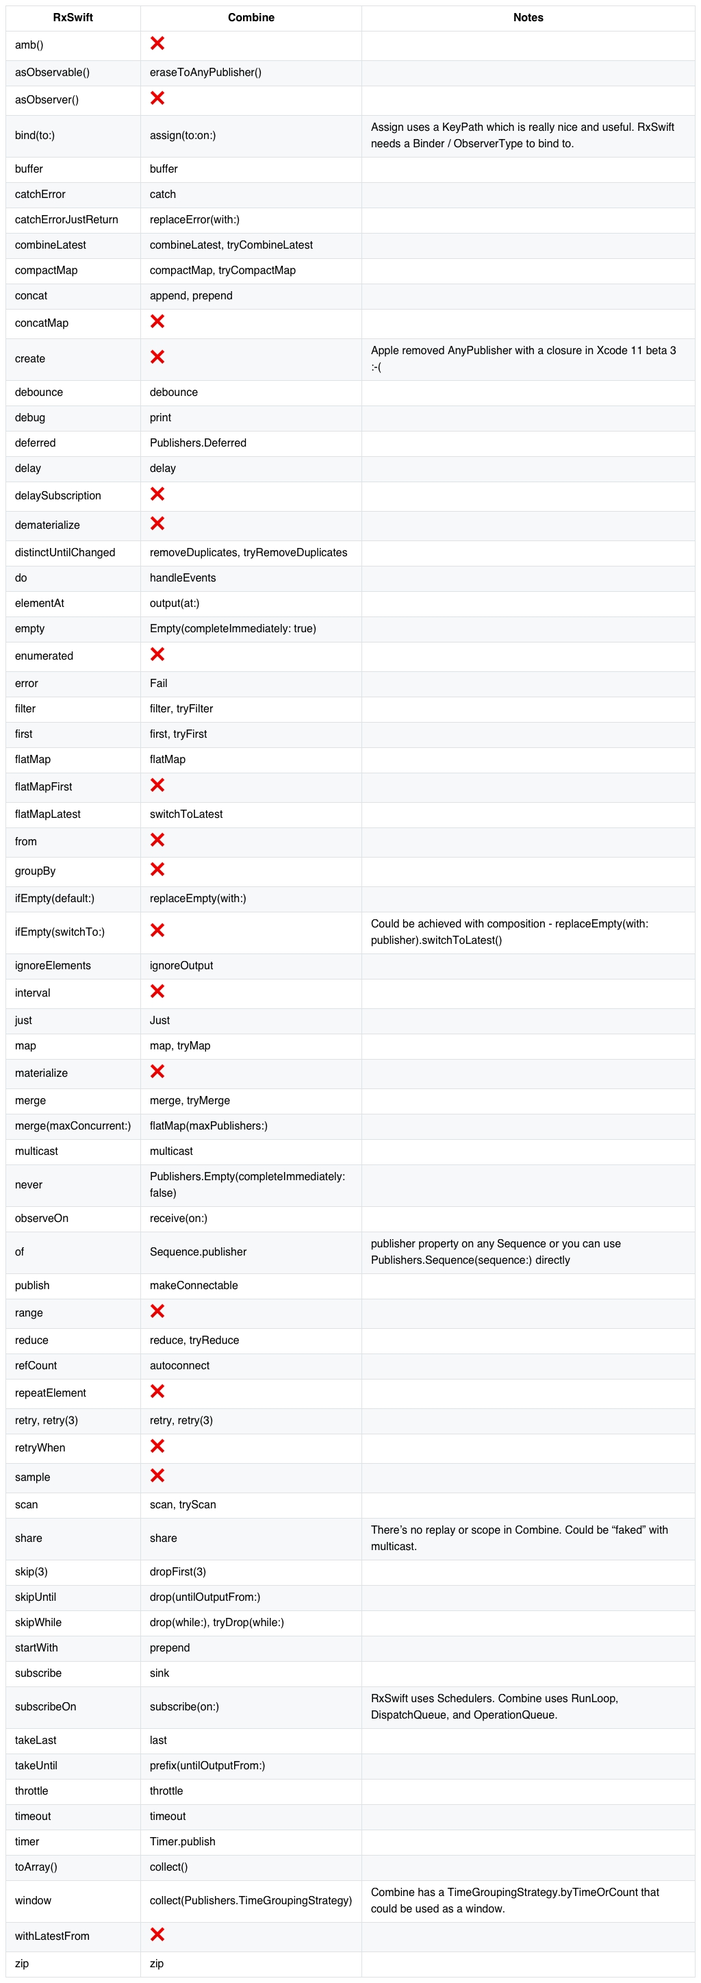
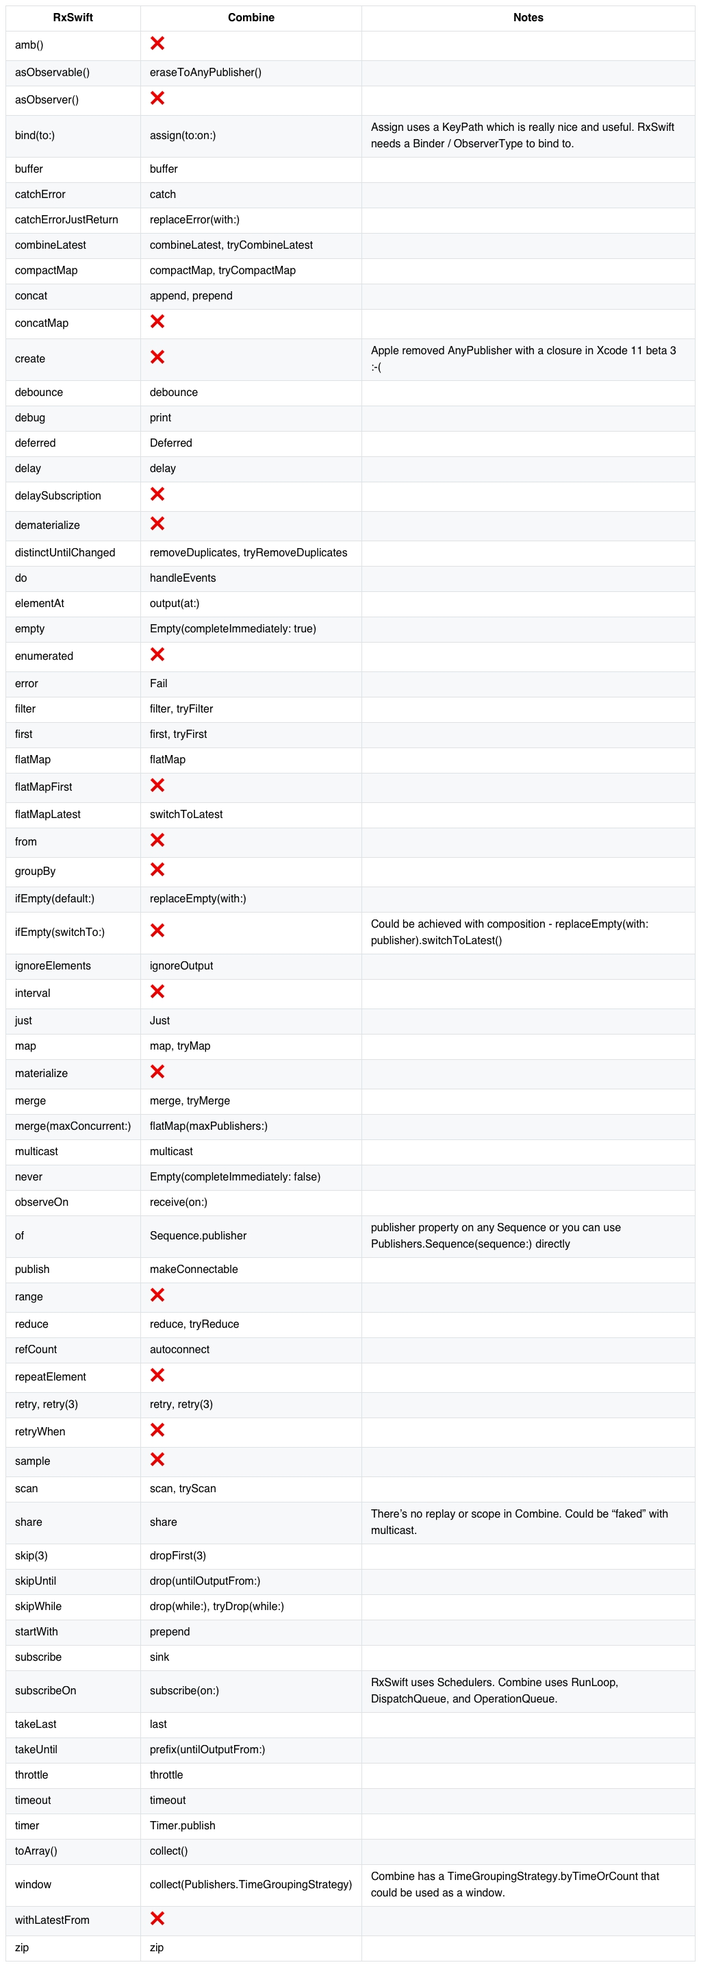
Updated `deferred` and `never` equivalents (#15)

diff --git a/README.md b/README.md
@@ -45,77 +45,77 @@ It's based on the following blog post: [https://medium.com/gett-engineering/rxsw
 
 ## [Operators](Data/operators.csv)
 
-| RxSwift               | Combine                                      | Notes                                                                                                    |
-|-----------------------|----------------------------------------------|----------------------------------------------------------------------------------------------------------|
-| amb()                 | ❌                                            |                                                                                                          |
-| asObservable()        | eraseToAnyPublisher()                        |                                                                                                          |
-| asObserver()          | ❌                                            |                                                                                                          |
-| bind(to:)             | `assign(to:on:)`                             | Assign uses a KeyPath which is really nice and useful. RxSwift needs a Binder / ObserverType to bind to. |
-| buffer                | buffer                                       |                                                                                                          |
-| catchError            | catch                                        |                                                                                                          |
-| catchErrorJustReturn  | replaceError(with:)                          |                                                                                                          |
-| combineLatest         | combineLatest, tryCombineLatest              |                                                                                                          |
-| compactMap            | compactMap, tryCompactMap                    |                                                                                                          |
-| concat                | append, prepend                              |                                                                                                          |
-| concatMap             | ❌                                            |                                                                                                          |
-| create                | ❌                                            | Apple removed AnyPublisher with a closure in Xcode 11 beta 3 :-(                                         |
-| debounce              | debounce                                     |                                                                                                          |
-| debug                 | print                                        |                                                                                                          |
-| deferred              | Publishers.Deferred                          |                                                                                                          |
-| delay                 | delay                                        |                                                                                                          |
-| delaySubscription     | ❌                                            |                                                                                                          |
-| dematerialize         | ❌                                            |                                                                                                          |
-| distinctUntilChanged  | removeDuplicates, tryRemoveDuplicates        |                                                                                                          |
-| do                    | handleEvents                                 |                                                                                                          |
-| elementAt             | output(at:)                                  |                                                                                                          |
-| empty                 | Empty(completeImmediately: true)             |                                                                                                          |
-| enumerated            | ❌                                            |                                                                                                          |
-| error                 | Fail                                         |                                                                                                          |
-| filter                | filter, tryFilter                            |                                                                                                          |
-| first                 | first, tryFirst                              |                                                                                                          |
-| flatMap               | flatMap                                      |                                                                                                          |
-| flatMapFirst          | ❌                                            |                                                                                                          |
-| flatMapLatest         | switchToLatest                               |                                                                                                          |
-| from                  | ❌                                            |                                                                                                          |
-| groupBy               | ❌                                            |                                                                                                          |
-| ifEmpty(default:)     | replaceEmpty(with:)                          |                                                                                                          |
-| ifEmpty(switchTo:)    | ❌                                            | Could be achieved with composition - replaceEmpty(with: publisher).switchToLatest()                      |
-| ignoreElements        | ignoreOutput                                 |                                                                                                          |
-| interval              | ❌                                            |                                                                                                          |
-| just                  | Just                                         |                                                                                                          |
-| map                   | map, tryMap                                  |                                                                                                          |
-| materialize           | ❌                                            |                                                                                                          |
-| merge                 | merge, tryMerge                              |                                                                                                          |
-| merge(maxConcurrent:) | flatMap(maxPublishers:)                      |                                                                                                          |
-| multicast             | multicast                                    |                                                                                                          |
-| never                 | Publishers.Empty(completeImmediately: false) |                                                                                                          |
-| observeOn             | receive(on:)                                 |                                                                                                          |
-| of                    | Sequence.publisher                           | `publisher` property on any `Sequence` or you can use `Publishers.Sequence(sequence:)` directly          |
-| publish               | makeConnectable                              |                                                                                                          |
-| range                 | ❌                                            |                                                                                                          |
-| reduce                | reduce, tryReduce                            |                                                                                                          |
-| refCount              | autoconnect                                  |                                                                                                          |
-| repeatElement         | ❌                                            |                                                                                                          |
-| retry, retry(3)       | retry, retry(3)                              |                                                                                                          |
-| retryWhen             | ❌                                            |                                                                                                          |
-| sample                | ❌                                            |                                                                                                          |
-| scan                  | scan, tryScan                                |                                                                                                          |
-| share                 | share                                        | There’s no replay or scope in Combine. Could be “faked” with multicast.                                  |
-| skip(3)               | dropFirst(3)                                 |                                                                                                          |
-| skipUntil             | drop(untilOutputFrom:)                       |                                                                                                          |
-| skipWhile             | drop(while:), tryDrop(while:)                |                                                                                                          |
-| startWith             | prepend                                      |                                                                                                          |
-| subscribe             | sink                                         |                                                                                                          |
-| subscribeOn           | subscribe(on:)                               | RxSwift uses Schedulers. Combine uses RunLoop, DispatchQueue, and OperationQueue.                        |
-| takeLast              | last                                         |                                                                                                          |
-| takeUntil             | prefix(untilOutputFrom:)                     |                                                                                                          |
-| throttle              | throttle                                     |                                                                                                          |
-| timeout               | timeout                                      |                                                                                                          |
-| timer                 | Timer.publish                                |                                                                                                          |
-| toArray()             | collect()                                    |                                                                                                          |
-| window                | collect(Publishers.TimeGroupingStrategy)     | Combine has a TimeGroupingStrategy.byTimeOrCount that could be used as a window.                         |
-| withLatestFrom        | ❌                                            |                                                                                                          |
-| zip                   | zip                                          |                                                                                                          |
+| RxSwift               | Combine                                  | Notes                                                                                                    |
+|-----------------------|------------------------------------------|----------------------------------------------------------------------------------------------------------|
+| amb()                 | ❌                                        |                                                                                                          |
+| asObservable()        | eraseToAnyPublisher()                    |                                                                                                          |
+| asObserver()          | ❌                                        |                                                                                                          |
+| bind(to:)             | `assign(to:on:)`                         | Assign uses a KeyPath which is really nice and useful. RxSwift needs a Binder / ObserverType to bind to. |
+| buffer                | buffer                                   |                                                                                                          |
+| catchError            | catch                                    |                                                                                                          |
+| catchErrorJustReturn  | replaceError(with:)                      |                                                                                                          |
+| combineLatest         | combineLatest, tryCombineLatest          |                                                                                                          |
+| compactMap            | compactMap, tryCompactMap                |                                                                                                          |
+| concat                | append, prepend                          |                                                                                                          |
+| concatMap             | ❌                                        |                                                                                                          |
+| create                | ❌                                        | Apple removed AnyPublisher with a closure in Xcode 11 beta 3 :-(                                         |
+| debounce              | debounce                                 |                                                                                                          |
+| debug                 | print                                    |                                                                                                          |
+| deferred              | Deferred                                 |                                                                                                          |
+| delay                 | delay                                    |                                                                                                          |
+| delaySubscription     | ❌                                        |                                                                                                          |
+| dematerialize         | ❌                                        |                                                                                                          |
+| distinctUntilChanged  | removeDuplicates, tryRemoveDuplicates    |                                                                                                          |
+| do                    | handleEvents                             |                                                                                                          |
+| elementAt             | output(at:)                              |                                                                                                          |
+| empty                 | Empty(completeImmediately: true)         |                                                                                                          |
+| enumerated            | ❌                                        |                                                                                                          |
+| error                 | Fail                                     |                                                                                                          |
+| filter                | filter, tryFilter                        |                                                                                                          |
+| first                 | first, tryFirst                          |                                                                                                          |
+| flatMap               | flatMap                                  |                                                                                                          |
+| flatMapFirst          | ❌                                        |                                                                                                          |
+| flatMapLatest         | switchToLatest                           |                                                                                                          |
+| from                  | ❌                                        |                                                                                                          |
+| groupBy               | ❌                                        |                                                                                                          |
+| ifEmpty(default:)     | replaceEmpty(with:)                      |                                                                                                          |
+| ifEmpty(switchTo:)    | ❌                                        | Could be achieved with composition - replaceEmpty(with: publisher).switchToLatest()                      |
+| ignoreElements        | ignoreOutput                             |                                                                                                          |
+| interval              | ❌                                        |                                                                                                          |
+| just                  | Just                                     |                                                                                                          |
+| map                   | map, tryMap                              |                                                                                                          |
+| materialize           | ❌                                        |                                                                                                          |
+| merge                 | merge, tryMerge                          |                                                                                                          |
+| merge(maxConcurrent:) | flatMap(maxPublishers:)                  |                                                                                                          |
+| multicast             | multicast                                |                                                                                                          |
+| never                 | Empty(completeImmediately: false)        |                                                                                                          |
+| observeOn             | receive(on:)                             |                                                                                                          |
+| of                    | Sequence.publisher                       | `publisher` property on any `Sequence` or you can use `Publishers.Sequence(sequence:)` directly          |
+| publish               | makeConnectable                          |                                                                                                          |
+| range                 | ❌                                        |                                                                                                          |
+| reduce                | reduce, tryReduce                        |                                                                                                          |
+| refCount              | autoconnect                              |                                                                                                          |
+| repeatElement         | ❌                                        |                                                                                                          |
+| retry, retry(3)       | retry, retry(3)                          |                                                                                                          |
+| retryWhen             | ❌                                        |                                                                                                          |
+| sample                | ❌                                        |                                                                                                          |
+| scan                  | scan, tryScan                            |                                                                                                          |
+| share                 | share                                    | There’s no replay or scope in Combine. Could be “faked” with multicast.                                  |
+| skip(3)               | dropFirst(3)                             |                                                                                                          |
+| skipUntil             | drop(untilOutputFrom:)                   |                                                                                                          |
+| skipWhile             | drop(while:), tryDrop(while:)            |                                                                                                          |
+| startWith             | prepend                                  |                                                                                                          |
+| subscribe             | sink                                     |                                                                                                          |
+| subscribeOn           | subscribe(on:)                           | RxSwift uses Schedulers. Combine uses RunLoop, DispatchQueue, and OperationQueue.                        |
+| takeLast              | last                                     |                                                                                                          |
+| takeUntil             | prefix(untilOutputFrom:)                 |                                                                                                          |
+| throttle              | throttle                                 |                                                                                                          |
+| timeout               | timeout                                  |                                                                                                          |
+| timer                 | Timer.publish                            |                                                                                                          |
+| toArray()             | collect()                                |                                                                                                          |
+| window                | collect(Publishers.TimeGroupingStrategy) | Combine has a TimeGroupingStrategy.byTimeOrCount that could be used as a window.                         |
+| withLatestFrom        | ❌                                        |                                                                                                          |
+| zip                   | zip                                      |                                                                                                          |
 
 
 # Contributing
